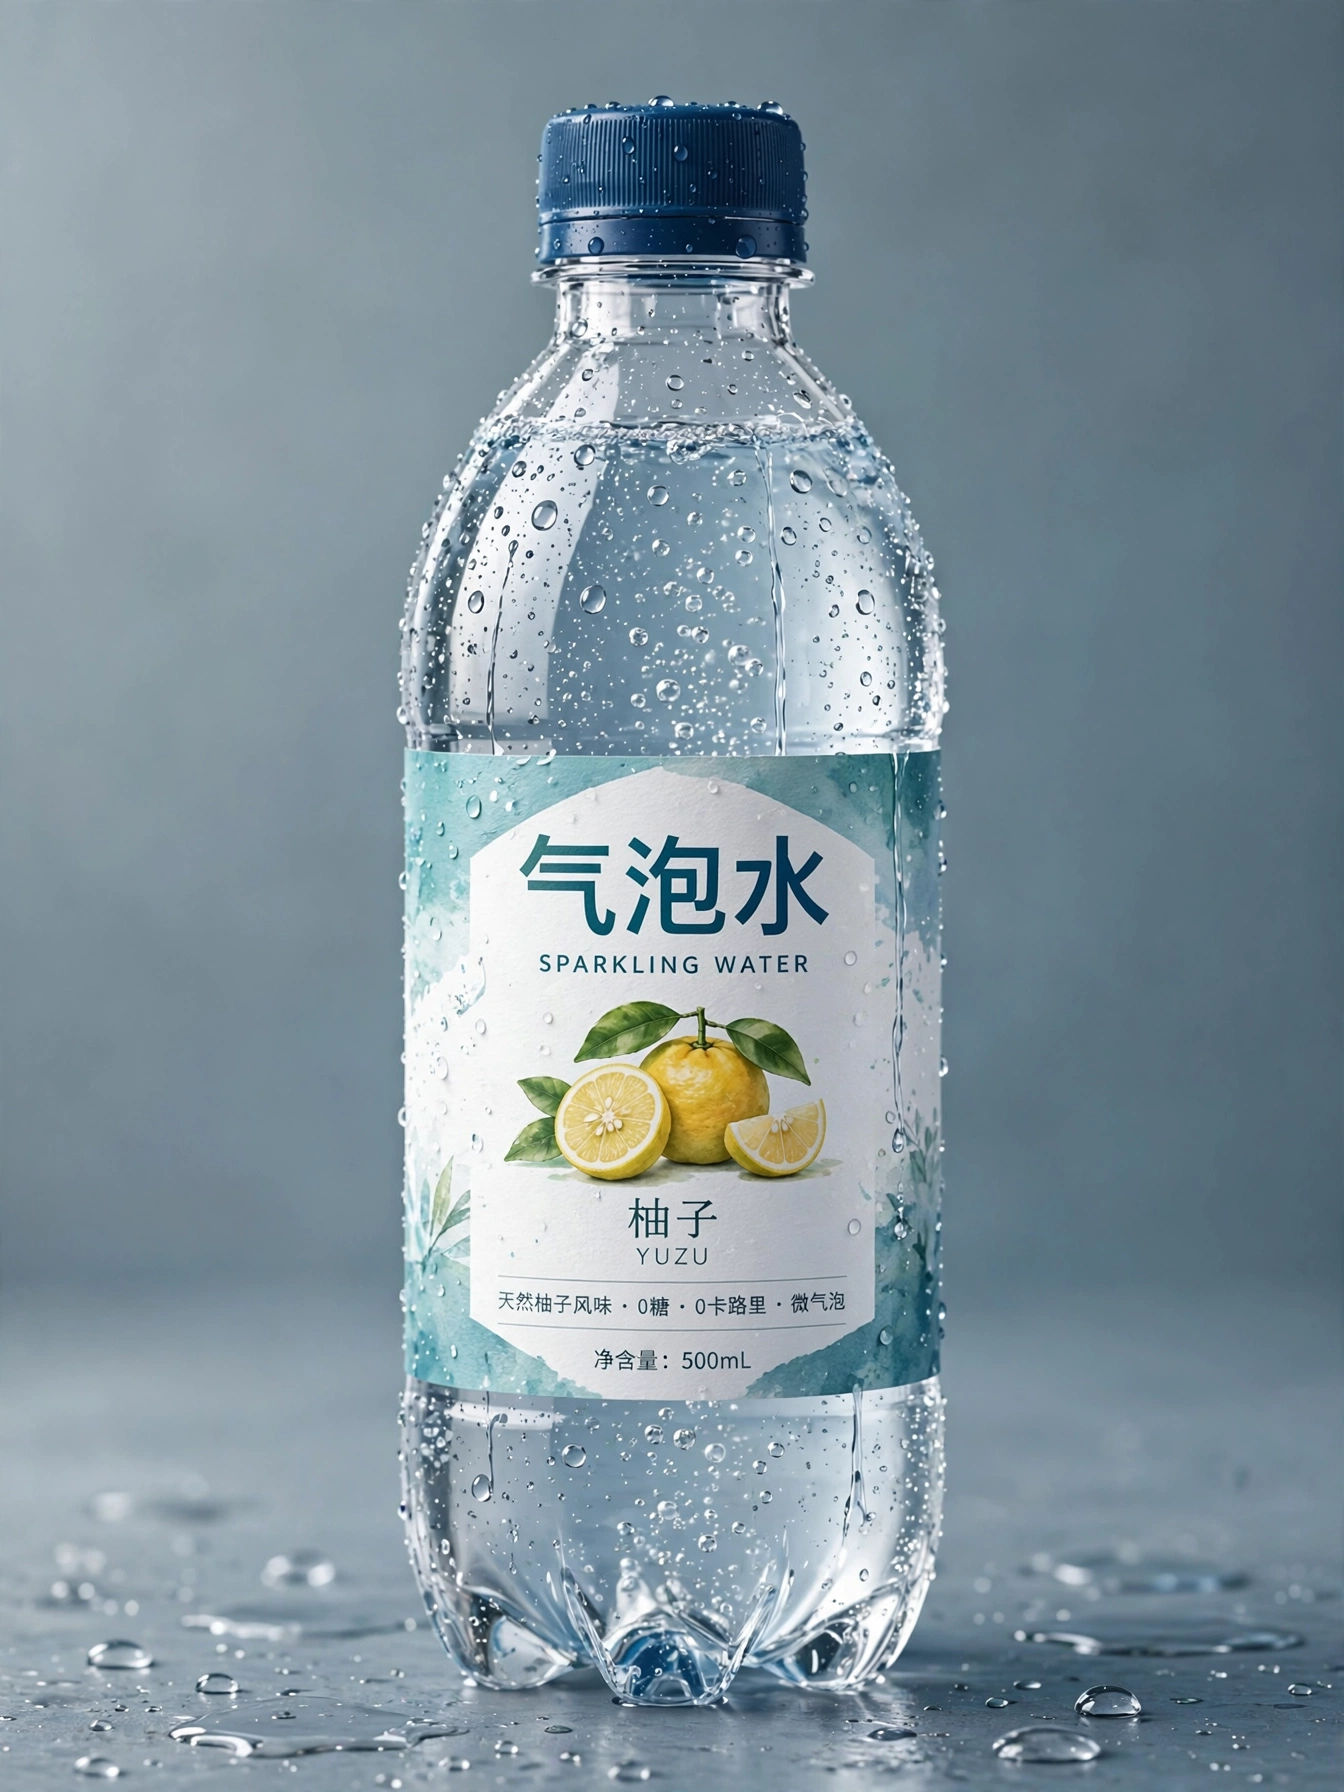
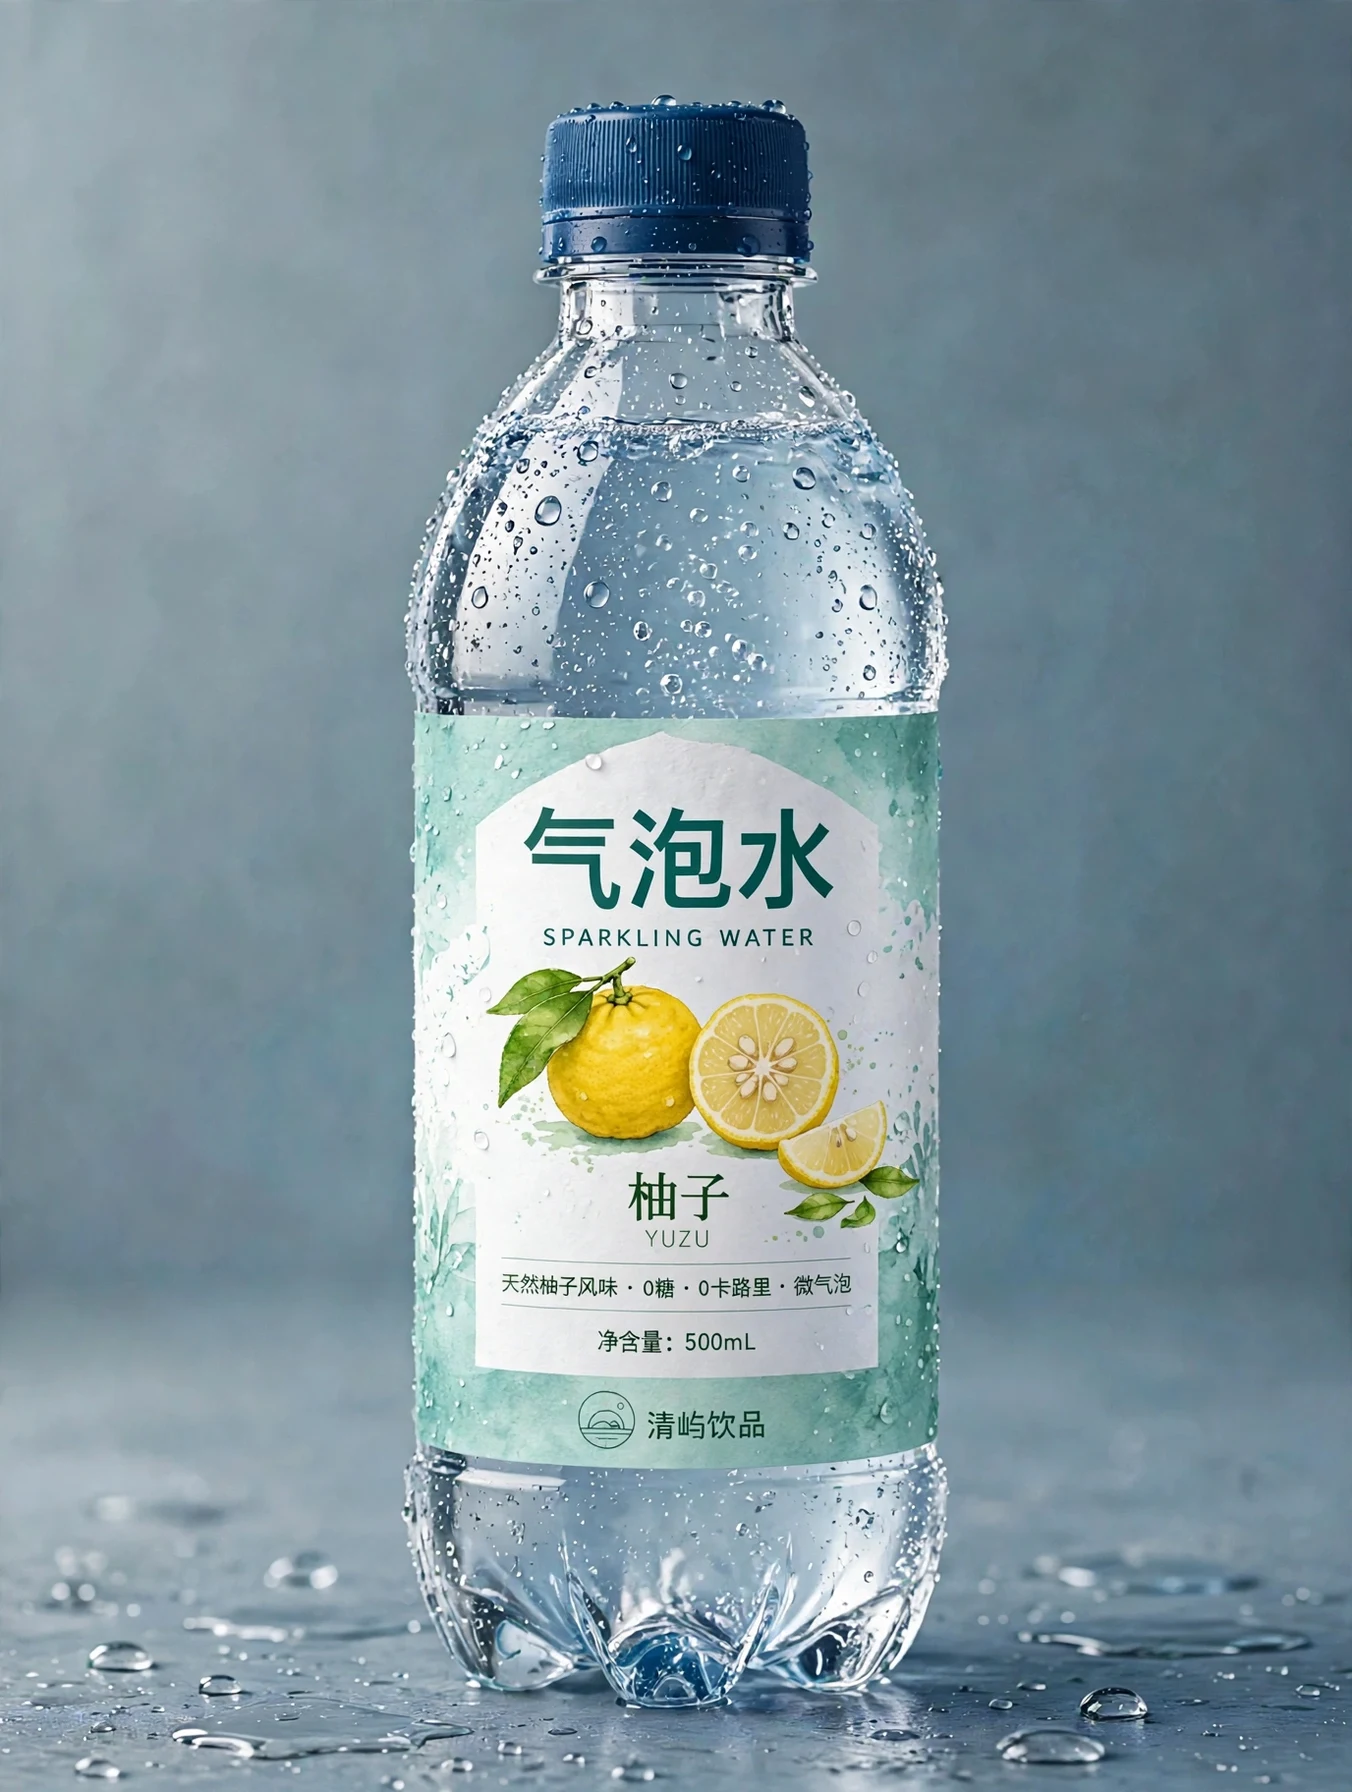
Update site: new P·01 bottle images, updated render and sw.js

Changed region(s): [[0.0, 0.0625, 0.9062, 1.0], [0.9375, 0.9375, 1.0, 0.9688]]

diff --git a/assets/sw.js b/assets/sw.js
@@ -1,7 +1,7 @@
 /* 正鑫越文化传播个人工作室 — Service Worker
    缓存应用外壳与核心资源，支持离线访问；图片走缓存优先策略。
    改版时递增 VERSION，页面会提示用户刷新到新版本。 */
-var VERSION = 'zxy-pwa-v15';
+var VERSION = 'zxy-pwa-v16';
 var CORE_CACHE = VERSION + '-core';
 var RUNTIME_CACHE = VERSION + '-runtime';
 
